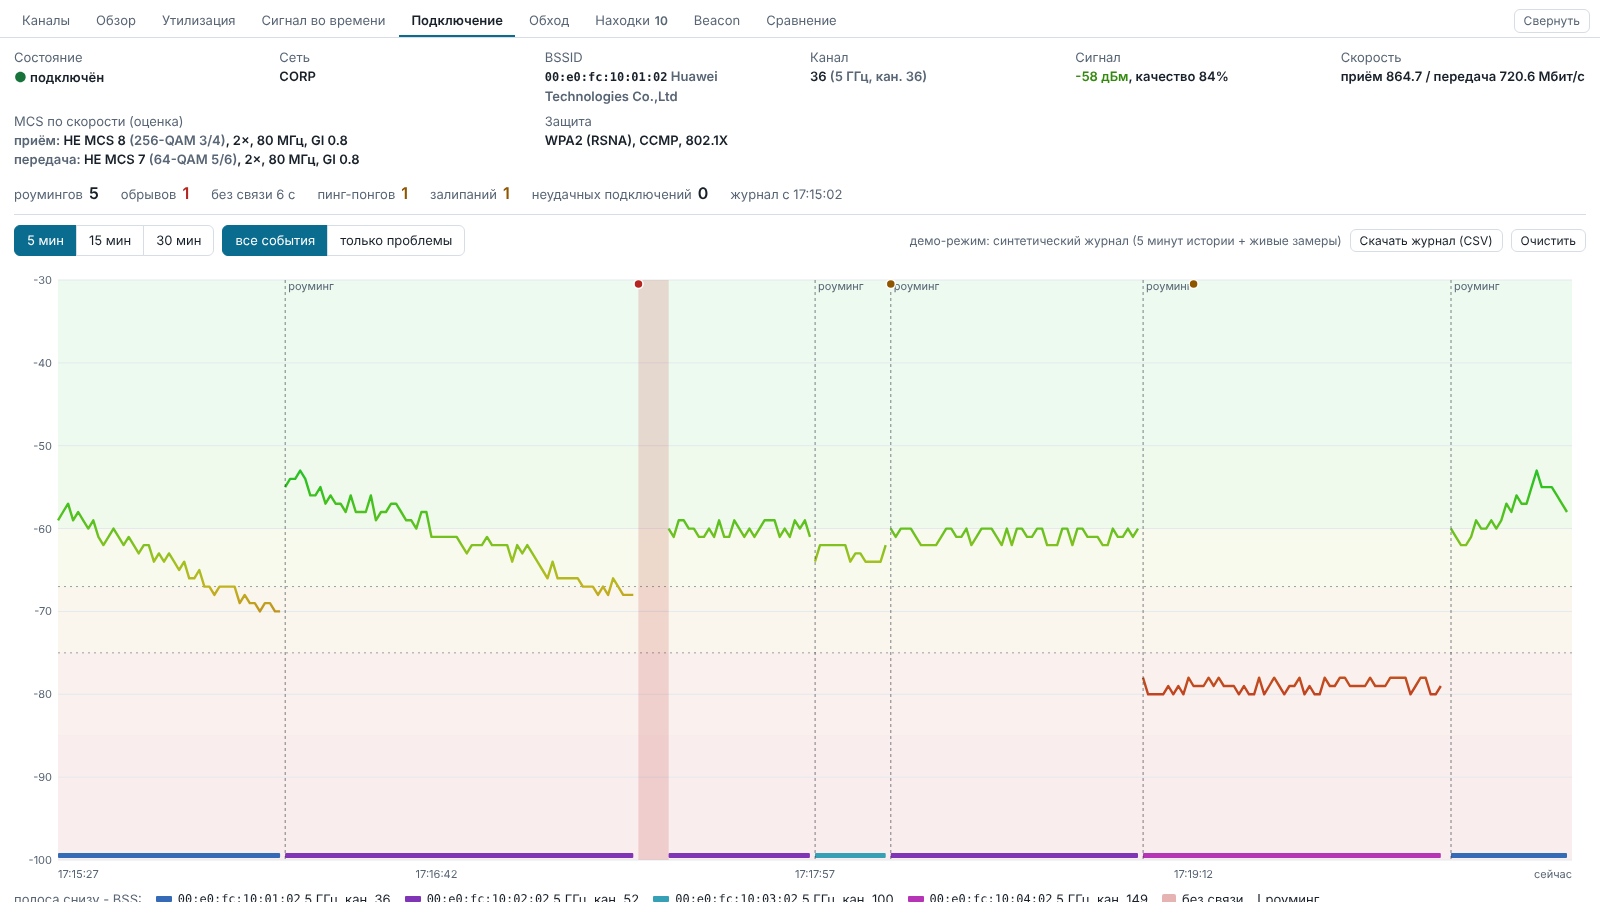
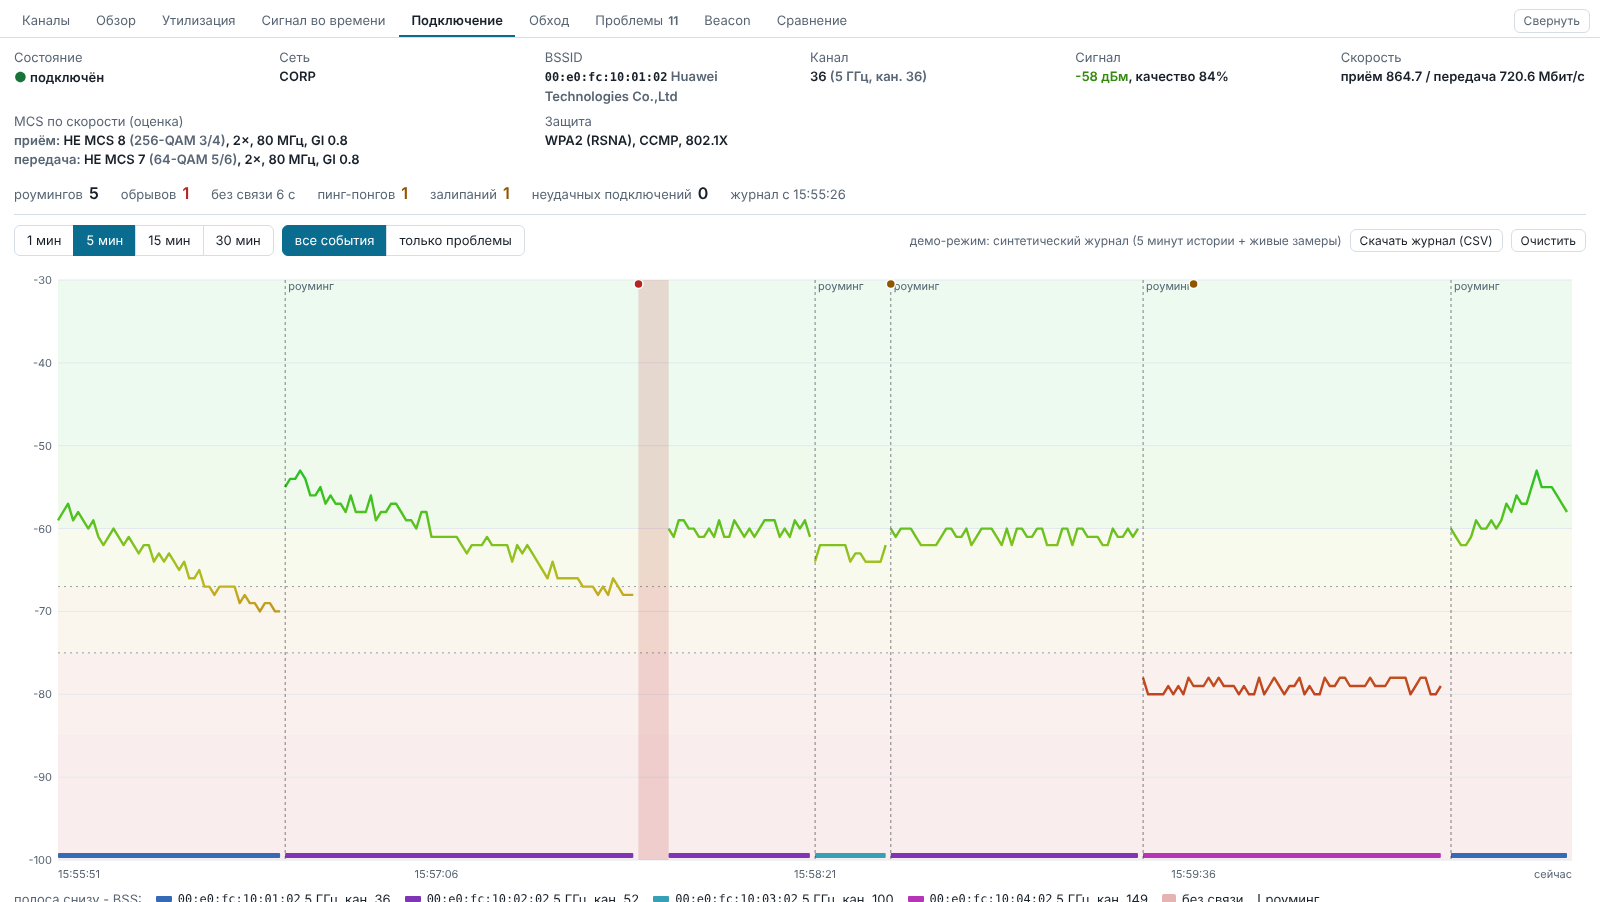
Release 0.8.0
Screenshots show the Problems tab; publishing a release replaces its draft.

Claude-Session: https://claude.ai/code/session_01GzqhhANYvoi2FcvtqvR9FD

diff --git a/CHANGELOG.md b/CHANGELOG.md
@@ -2,7 +2,7 @@
 
 Формат: [Keep a Changelog](https://keepachangelog.com/ru/1.1.0/), версии по [SemVer](https://semver.org/lang/ru/).
 
-## [Не выпущено] - черновик 0.8.0
+## [0.8.0] - 2026-10-11
 
 ### Исправлено
 - Программа завершалась, пока окно было свёрнуто: Edge усыплял страницу, опрос прекращался, и через
@@ -11,7 +11,7 @@
   только когда закрыт сам процесс окна. Тишина свёрнутого окна больше не считается закрытием.
 
 ### Изменено
-- Вкладка «Находки» называется «Проблемы» (и в отчётах PDF/HTML/Excel).
+- Вкладка «Находки» называется «Проблемы» (и в отчётах PDF/HTML/Excel), скриншоты в README обновлены.
 - В журнале подключения можно показать последнюю минуту (1, 5, 15, 30 мин).
 
 ## [0.7.1] - 2026-10-11
@@ -60,6 +60,6 @@
   (каналы, обзор, утилизация, сигнал во времени, журнал подключения, обход по плану этажа, находки,
   beacon, сравнение), отчёты PDF/Excel/HTML/CSV/JSON, темы оформления.
 
-[Не выпущено]: https://github.com/salilov95/Wi-Fi-Beacon-Scanner/compare/v0.7.1...release/0.8.0
+[0.8.0]: https://github.com/salilov95/Wi-Fi-Beacon-Scanner/releases/tag/v0.8.0
 [0.7.1]: https://github.com/salilov95/Wi-Fi-Beacon-Scanner/releases/tag/v0.7.1
 [0.7.0]: https://github.com/salilov95/Wi-Fi-Beacon-Scanner/releases/tag/v0.7.0

diff --git a/README.md b/README.md
@@ -119,7 +119,7 @@ RSSI всех точек выбранной сети по сканам: лини
 Тихая установка (SCCM, Intune, GPO, PDQ):
 
 ```
-WiFiBeaconScanner-Setup-0.7.1.exe /VERYSILENT /SUPPRESSMSGBOXES /NORESTART /SP-
+WiFiBeaconScanner-Setup-0.8.0.exe /VERYSILENT /SUPPRESSMSGBOXES /NORESTART /SP-
 ```
 
 Файлы не подписаны сертификатом, поэтому при ручном запуске SmartScreen попросит подтверждение

diff --git a/docs/deployment.md b/docs/deployment.md
@@ -12,7 +12,7 @@
 
 Тихая установка для раздачи на много ноутбуков (SCCM, Intune, GPO, PDQ):
 
-    WiFiBeaconScanner-Setup-0.7.1.exe /VERYSILENT /SUPPRESSMSGBOXES /NORESTART /SP-
+    WiFiBeaconScanner-Setup-0.8.0.exe /VERYSILENT /SUPPRESSMSGBOXES /NORESTART /SP-
 
 Тихое удаление:
 
